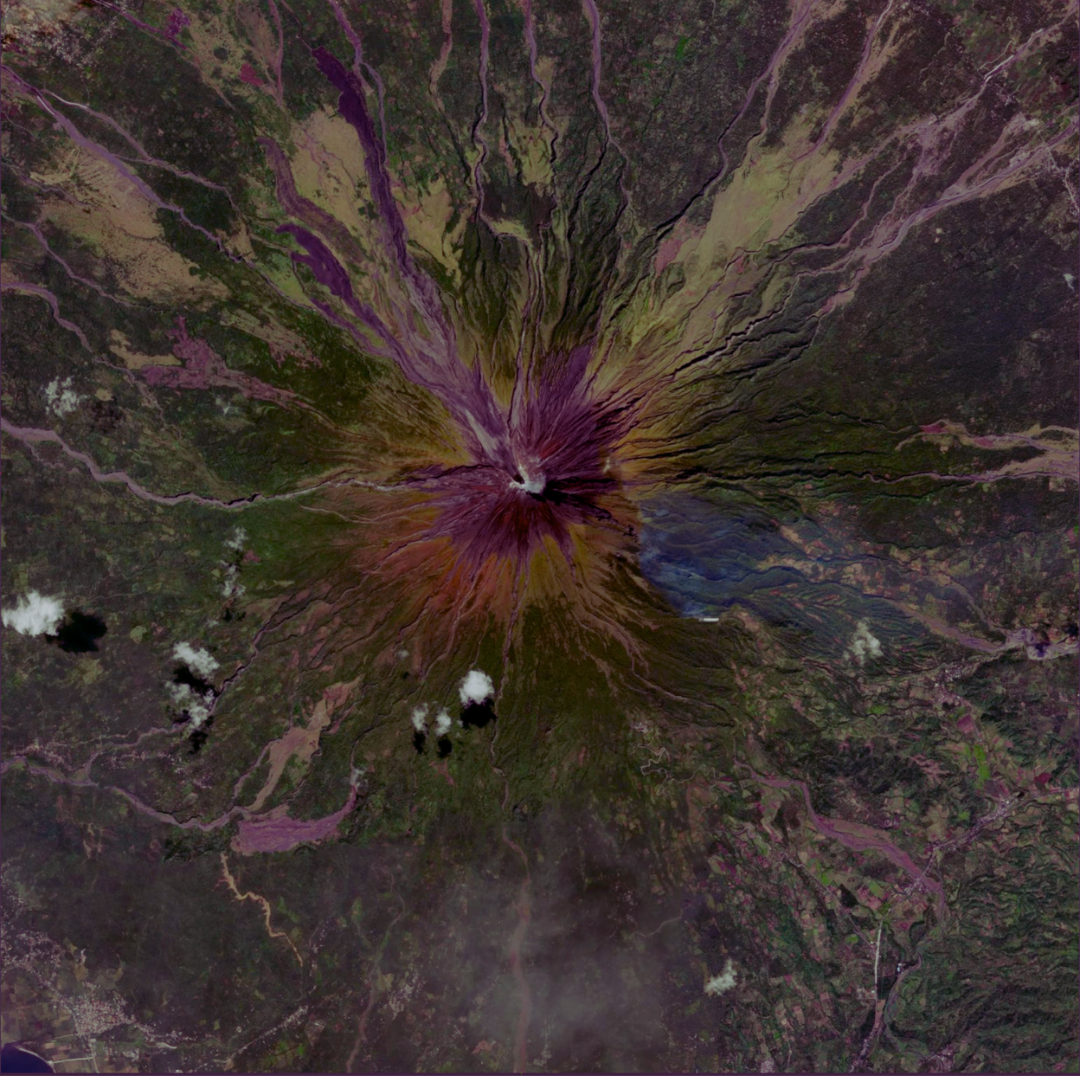
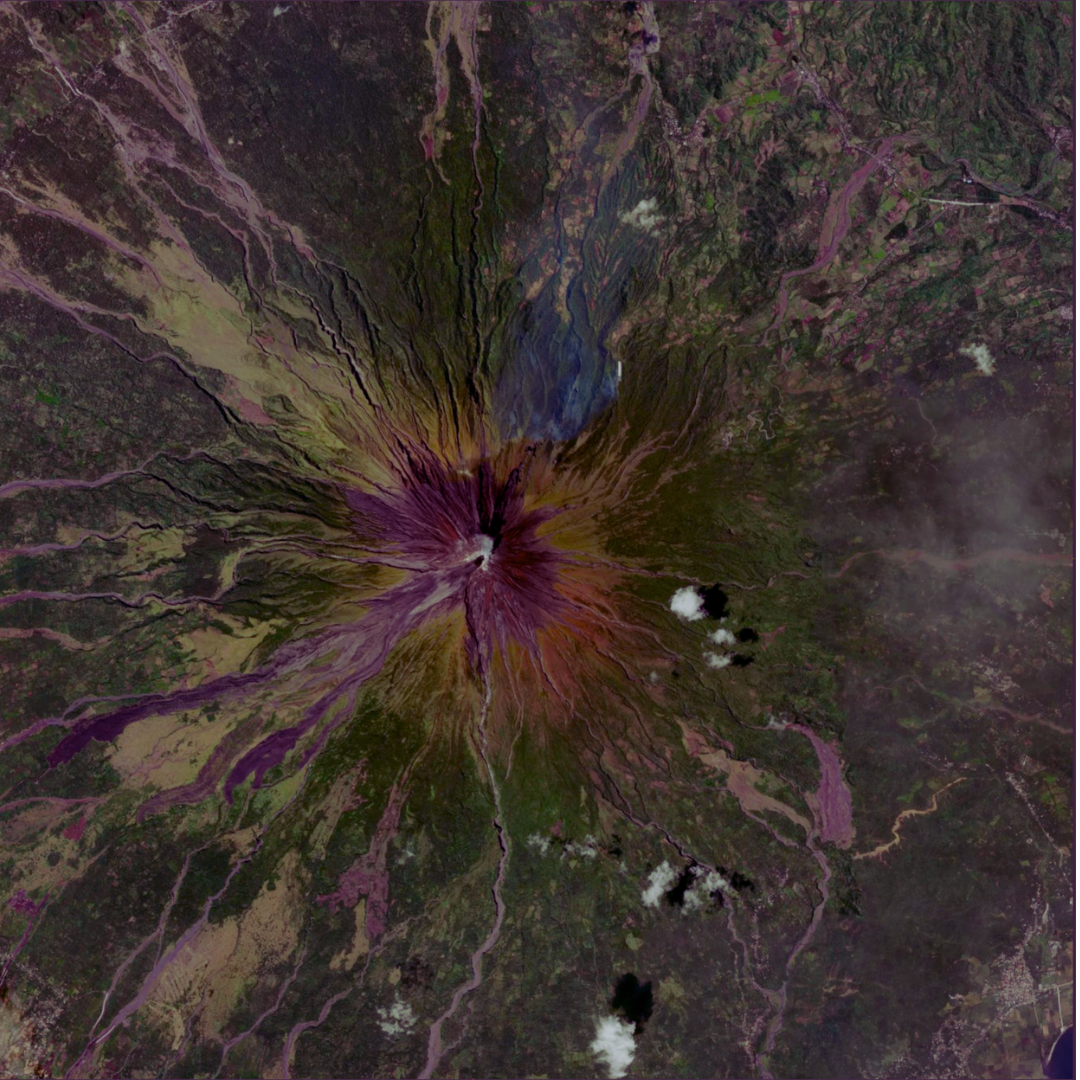
eruption fresnel + texture override

diff --git a/eruption.js b/eruption.js
@@ -1,5 +1,38 @@
 // Function to shake the camera with looping, varying speed and intensity, and uneven intervals
 window.shakeCamera = function() {
+    // Override texture of mayon_FULL3.glb with volcano_erupted_tex.png
+    const textureLoader = new THREE.TextureLoader();
+    textureLoader.load('volcano_erupted_tex.png', (texture) => {
+        texture.encoding = THREE.sRGBEncoding; // Ensure correct color space
+        if (window.terrain) {
+            window.terrain.traverse((child) => {
+                if (child.isMesh && child.material) {
+                    child.material.map = texture;
+                    child.material.opacity = 0; // Start with opacity 0 for fade-in
+                    child.material.needsUpdate = true;
+                }
+            });
+        }
+    });
+
+    // Collect fresnel materials for color interpolation
+    let fresnelMaterials = [];
+    const originalFresnelColor = new THREE.Color(0x00ffff); // Original cyan color
+    if (window.terrain) {
+        window.terrain.traverse((child) => {
+            if (child.userData.fresnelOutline && child.material.uniforms && child.material.uniforms.fresnelColor) {
+                fresnelMaterials.push(child.material);
+            }
+        });
+    }
+    if (window.volcano) {
+        window.volcano.traverse((child) => {
+            if (child.userData.fresnelOutline && child.material.uniforms && child.material.uniforms.fresnelColor) {
+                fresnelMaterials.push(child.material);
+            }
+        });
+    }
+
     const targetPosition = new THREE.Vector3(19, 14, 24);
     let isShaking = false;
     let shakeStartTime = 0;
@@ -7,6 +40,8 @@ window.shakeCamera = function() {
     let shakeIntensity = 0;
     let nextShakeTime = Date.now();
     let hasMovedToTarget = false;
+    let hasTextureFadedIn = false;
+    let hasColorChanged = false;
 
     function animateShake() {
         const currentTime = Date.now();
@@ -26,6 +61,26 @@ window.shakeCamera = function() {
             if (progress < 1) {
                 // Calculate fade factor for fade-in and fade-out effect
                 const fadeFactor = Math.sin(progress * Math.PI);
+
+                // Fade in the new texture opacity (only on first shake)
+                if (!hasTextureFadedIn && window.terrain) {
+                    window.terrain.traverse((child) => {
+                        if (child.isMesh && child.material && child.material.map) {
+                            child.material.opacity = progress; // Gradually increase opacity from 0 to 1
+                            child.material.needsUpdate = true;
+                        }
+                    });
+                }
+
+                // Gradually change fresnel color from cyan to red (only on first shake)
+                if (!hasColorChanged) {
+                    const targetFresnelColor = new THREE.Color(0xff0000); // Red color
+                    const currentFresnelColor = new THREE.Color();
+                    currentFresnelColor.lerpColors(originalFresnelColor, targetFresnelColor, progress);
+                    fresnelMaterials.forEach(material => {
+                        material.uniforms.fresnelColor.value.copy(currentFresnelColor);
+                    });
+                }
 
                 // Generate random offsets for shake, multiplied by fade factor (reduced intensity for slower shake)
                 const offsetX = (Math.random() - 0.5) * shakeIntensity * fadeFactor * 0.5;
@@ -60,6 +115,8 @@ window.shakeCamera = function() {
                 window.camera.position.copy(targetPosition);
                 if (!hasMovedToTarget) {
                     hasMovedToTarget = true;
+                    hasTextureFadedIn = true;
+                    hasColorChanged = true;
                 }
                 // Set next shake time with random delay (3-10 seconds)
                 nextShakeTime = currentTime + Math.random() * 7000 + 3000;

diff --git a/TODO.md b/TODO.md
@@ -1,4 +1,8 @@
 # TODO for Adding Fade Effects to shakeCamera
 
-- [x] Modify shakeCamera function in eruption.js to add fade-in and fade-out using sine wave fadeFactor
-- [x] Test the animation to ensure fade effects work as expected
+- [x] Modify shakeCamera function in eruption.js to add fade-in effect for the new texture: Set initial opacity to 0 when texture loads, then gradually increase to 1 during shake duration.
+- [x] Add gradual color change for fresnel shader: Interpolate fresnelColor from cyan (0x00ffff) to red (0xff0000) based on shake progress.
+- [x] Ensure effects are synchronized with the existing shake animation.
+- [x] Fix fade-in and texture override to happen only once when shakeCamera is called, not with every shake loop.
+- [x] Test the animation to ensure fade-in and color change work smoothly.
+- [x] Verify that the effects trigger correctly when the eruption button is clicked.
